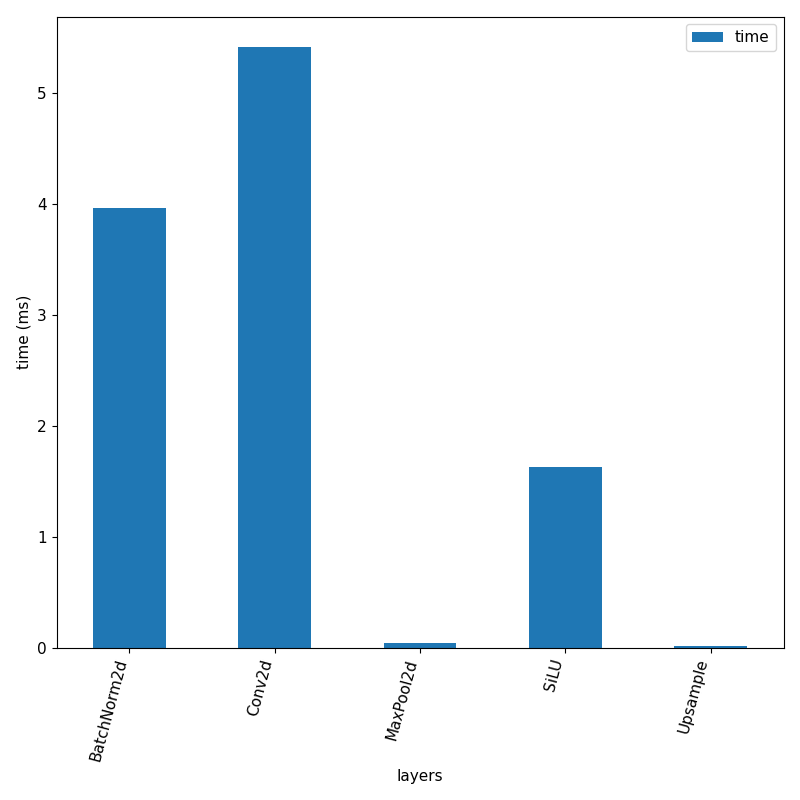
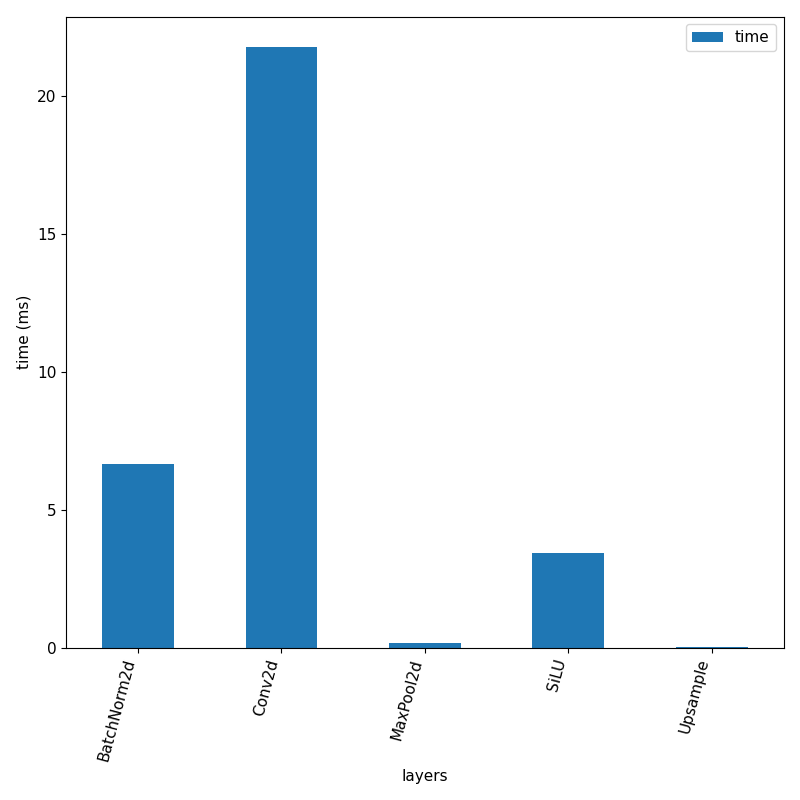
improved runtime measure

diff --git a/profiler.py b/profiler.py
@@ -1,6 +1,5 @@
 import torch
 import pandas as pd
-import time
 
 class Record:
     def __init__(self) -> None:
@@ -21,7 +20,7 @@ class Record:
         return output
     
     def to_dataframe(self) -> pd.DataFrame:
-        df = pd.DataFrame.from_dict(self.data, orient='index', )
+        df = pd.DataFrame.from_dict(self.data, orient='index')
         df.reset_index(inplace=True)
         df.rename(columns={'index': 'layer_name'}, inplace=True)
         return df
@@ -33,6 +32,8 @@ class Profiler:
         self.name = name
         self.layers = layers
         self.all_layers = False
+
+        self.starter, self.ender = torch.cuda.Event(enable_timing=True), torch.cuda.Event(enable_timing=True)
         
         if self.layers is None:
             self.all_layers = True
@@ -44,29 +45,32 @@ class Profiler:
     def attach_hooks(self, model: torch.nn.Module, name:str) -> None:
         if len(list(model.named_children())) == 0:
             if self.all_layers:
-                self.pre_hooks.append(model.register_forward_pre_hook(self.pre_time_hook(name)))
-                self.post_hooks.append(model.register_forward_hook(self.post_time_hook(name)))
+                self._attach_hooks(model, name)
             else:
                 if isinstance(model, self.layers):
-                    self.pre_hooks.append(model.register_forward_pre_hook(self.pre_time_hook(name)))
-                    self.post_hooks.append(model.register_forward_hook(self.post_time_hook(name)))
+                    self._attach_hooks(model, name)
             return
         
         for n, m in model.named_children():
             self.attach_hooks(m, name + "." + n)
+
+    def _attach_hooks(self, model: torch.nn.Module, name:str) -> None:
+        self.pre_hooks.append(model.register_forward_pre_hook(self.pre_time_hook(name)))
+        self.post_hooks.append(model.register_forward_hook(self.post_time_hook(name)))
     
     def pre_time_hook(self, name: str) -> callable:
         def hook(module, input):
-            module_type = type(module).__name__
-            start_time = time.time()
-            self.record.insert(name, module_type, start_time)
+            self.starter.record()
         return hook
     
     def post_time_hook(self, name: str) -> callable:
         def hook(module, input, output):
-            end_time = time.time()
+            self.ender.record()
+            torch.cuda.synchronize()
+            end_time = self.starter.elapsed_time(self.ender)
+
             module_type = type(module).__name__
-            self.record.insert(name, module_type,(end_time - self.record.get(name)['time']) * 1000)
+            self.record.insert(name, module_type, end_time)
         return hook
     
     def detach_hooks(self) -> None:
@@ -82,11 +86,7 @@ class Profiler:
         self.attach_hooks(self.model, self.name)
 
         with torch.no_grad():
-            #get total time for inference
-            start_time = time.time()
             self.model(image)
-            end_time = time.time()
-            self.record.total_time = end_time - start_time
 
         self.detach_hooks()
 

diff --git a/main.py b/main.py
@@ -11,7 +11,7 @@ def profile(model: torch.nn.Module, model_name: str = 'model', device: str = 'cp
     record = profiler.run(image)
     return record.to_dataframe()
 
-def plot_line(df, model_name, scale: float = 1.8):
+def plot_line(df, model_name, scale: float = 1.9):
     fig, ax = plt.subplots()
     df.plot.line(y='time', ax=ax, figsize=(12, 5), marker='o', markersize=5)
     plt.legend(loc='upper left')
